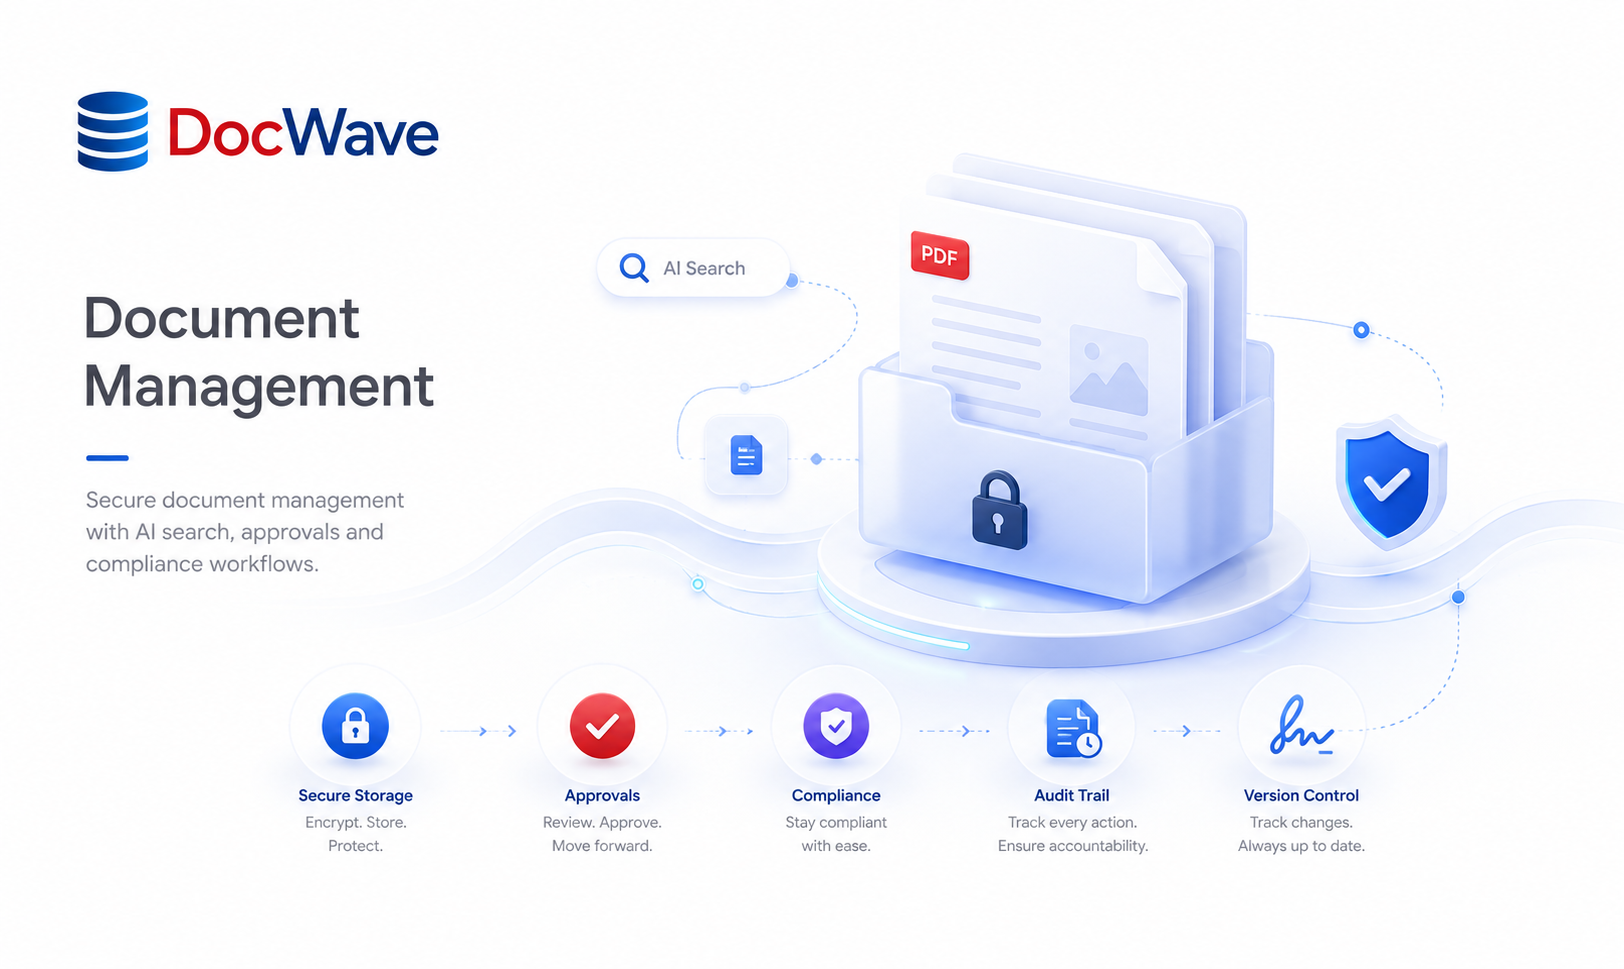
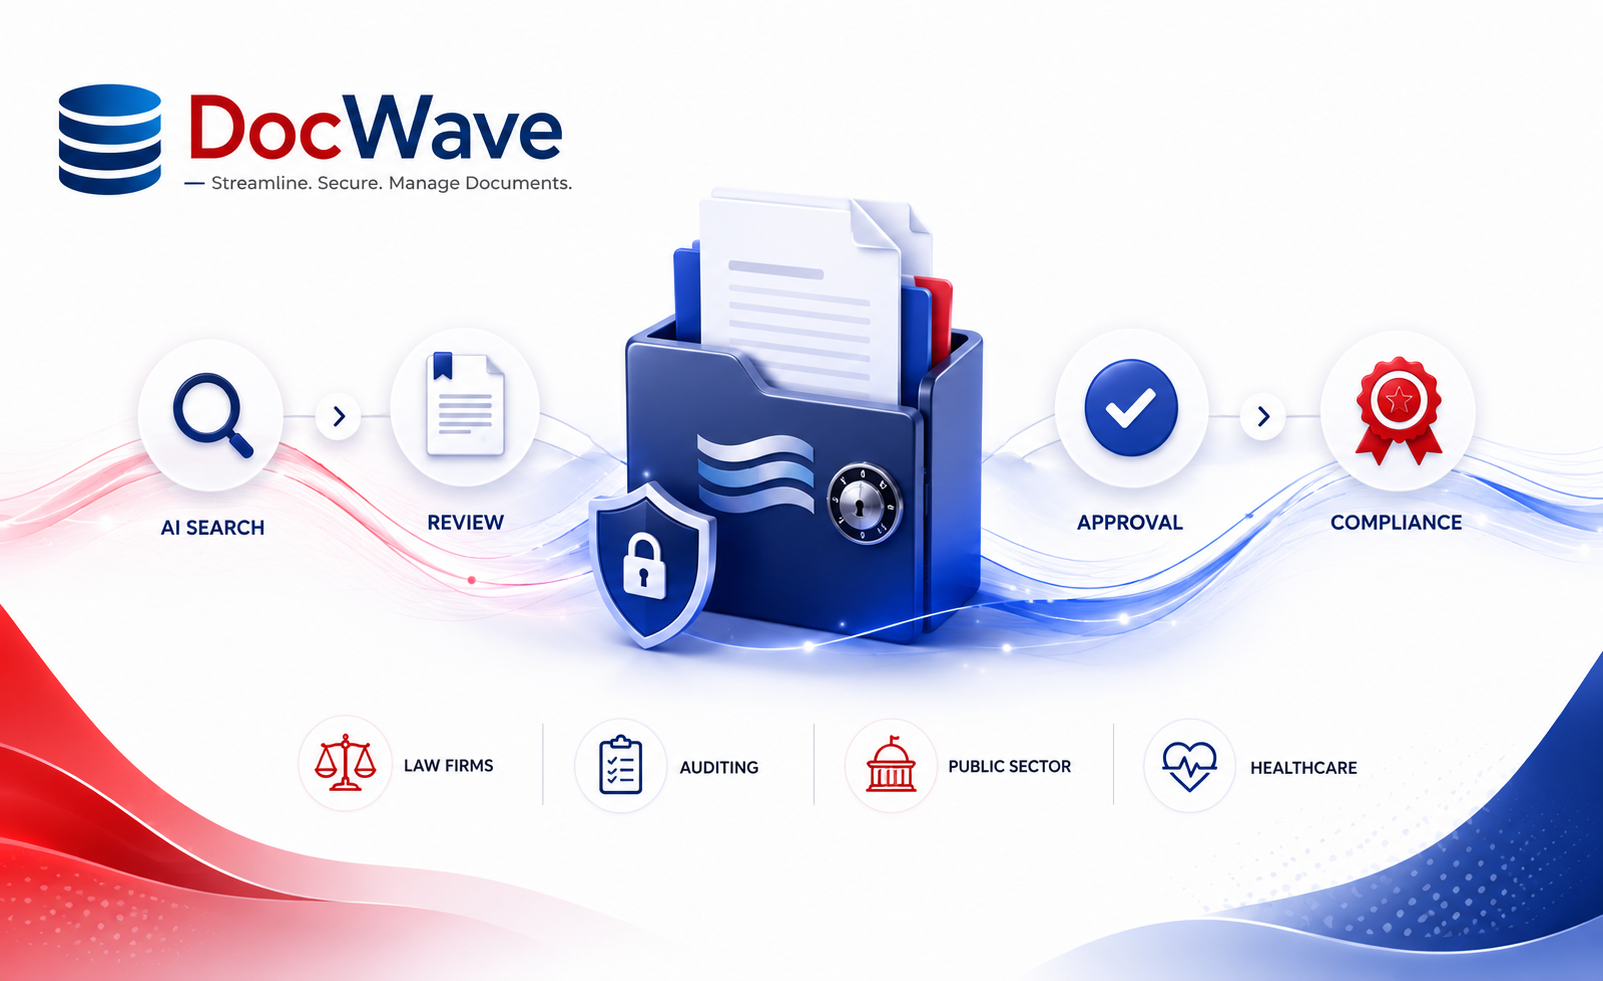
Refactor code structure for improved readability and maintainability

diff --git a/style.css b/style.css
@@ -2106,7 +2106,7 @@ a.nav-logo:hover .site-logo {
   opacity: 1;
 }
 
-/* ═════════ DIRECTOR SECTION ═════════ */
+/* ═════════ DIRECTOR SECTION ═══════════════════════════ */
 
 .director-img {
   width: 100%;
@@ -2342,6 +2342,57 @@ a.nav-logo:hover .site-logo {
 .award-year {
   font-size: .78rem;
   color: var(--muted);
+}
+
+/* ─── INSTITUTION LOGO ────────────────────────────────────── */
+
+
+.institution-section {
+  padding: 80px 0;
+  background: var(--bg);
+}
+
+.college-grid {
+  display: grid;
+  grid-template-columns: repeat(4, 1fr);
+  gap: 24px;
+  margin-top: 48px;
+}
+
+.college-card {
+  background: var(--bg);
+  border: 1px solid var(--border);
+  border-radius: 18px;
+  padding: 24px;
+  min-height: 140px;
+
+  display: flex;
+  align-items: center;
+  justify-content: center;
+
+  transition: .3s ease;
+}
+
+.college-card:hover {
+  transform: translateY(-4px);
+}
+
+.college-card img {
+  max-width: 100%;
+  max-height: 80px;
+  object-fit: contain;
+}
+
+@media (max-width: 992px) {
+  .college-grid {
+    grid-template-columns: repeat(2, 1fr);
+  }
+}
+
+@media (max-width: 576px) {
+  .college-grid {
+    grid-template-columns: 1fr;
+  }
 }
 
 /* ─── PORTFOLIO GRID ─────────────────────────────────── */

diff --git a/about.html b/about.html
@@ -581,8 +581,38 @@
     </div>
   </section>
 
+  <!-- ══ SECTION — INSTITUTIONAL PARTNERSHIPS ══════════════════════════ -->
+  <section style="background:var(--surface)">
+    <div class="container">
+      <div class="sec-header-center">
+        <div class="sec-tag">Institutional Partnerships</div>
+        <h2 class="sec-title">Our Academic Partners</h2>
+      </div>
+
+      <div class="college-grid">
+
+        <div class="college-card">
+          <img src="assets/college-logo/kalasalingam.png" alt="Kalasalingam Academy of Research and Education">
+        </div>
+
+        <div class="college-card">
+          <img src="assets/college-logo/saveetha.png" alt="Saveetha Engineering College">
+        </div>
+
+        <div class="college-card">
+          <img src="assets/college-logo/hindustan.png" alt="Hindustan College of Engineering and Technology">
+        </div>
+
+        <div class="college-card">
+          <img src="assets/college-logo/sns.png" alt="SNS College of Engineering">
+        </div>
+
+      </div>
+    </div>
+  </section>
+
   <!-- ══ QUOTE FORM ══════════════════════════════════════════ -->
-  <section class="quote-section">
+  <section class="quote-section" style="background:var(--bg)">
     <div class="container">
       <div class="quote-wrap">
         <div class="quote-info reveal">

diff --git a/index.html b/index.html
@@ -926,7 +926,7 @@
     </div>
   </section>
 
-  <!-- ══ SECTION 3 — SERVICES ══════════════════════════════ -->
+  <!-- ══ SECTION 6 — SERVICES ══════════════════════════════ -->
   <section id="services" style="background:var(--bg)">
     <div class="container">
       <div class="sec-header-center reveal desktop-only">